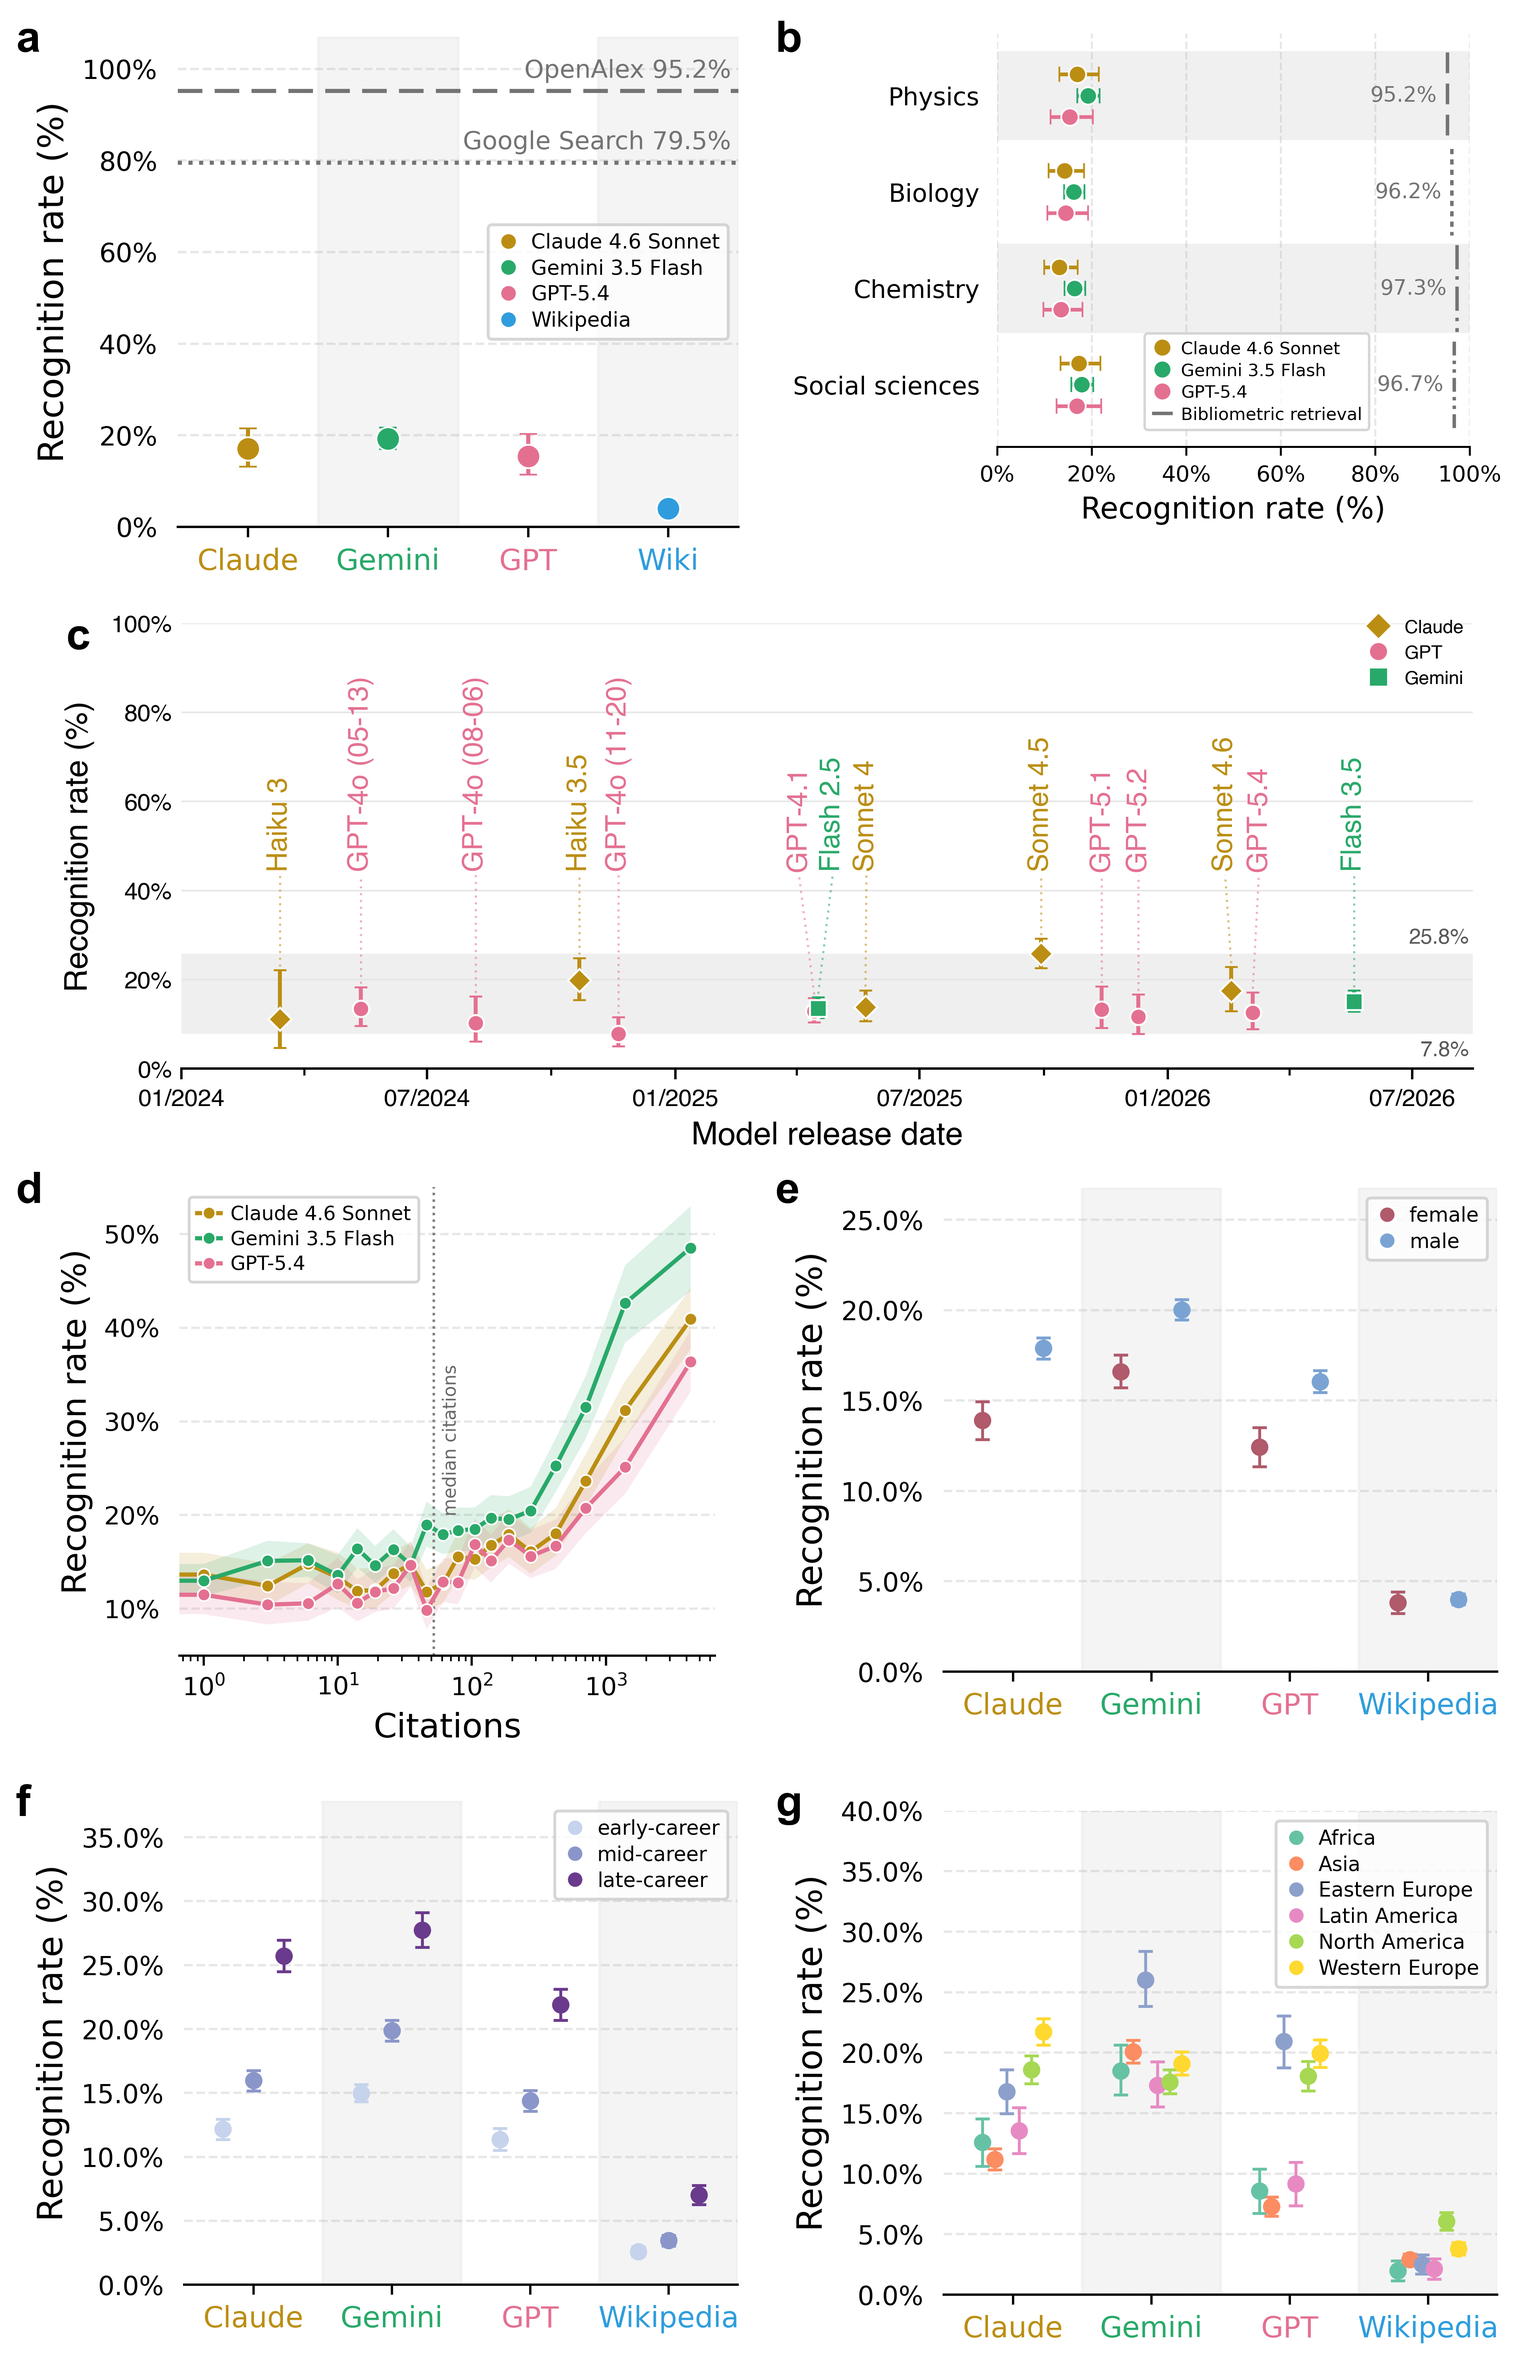
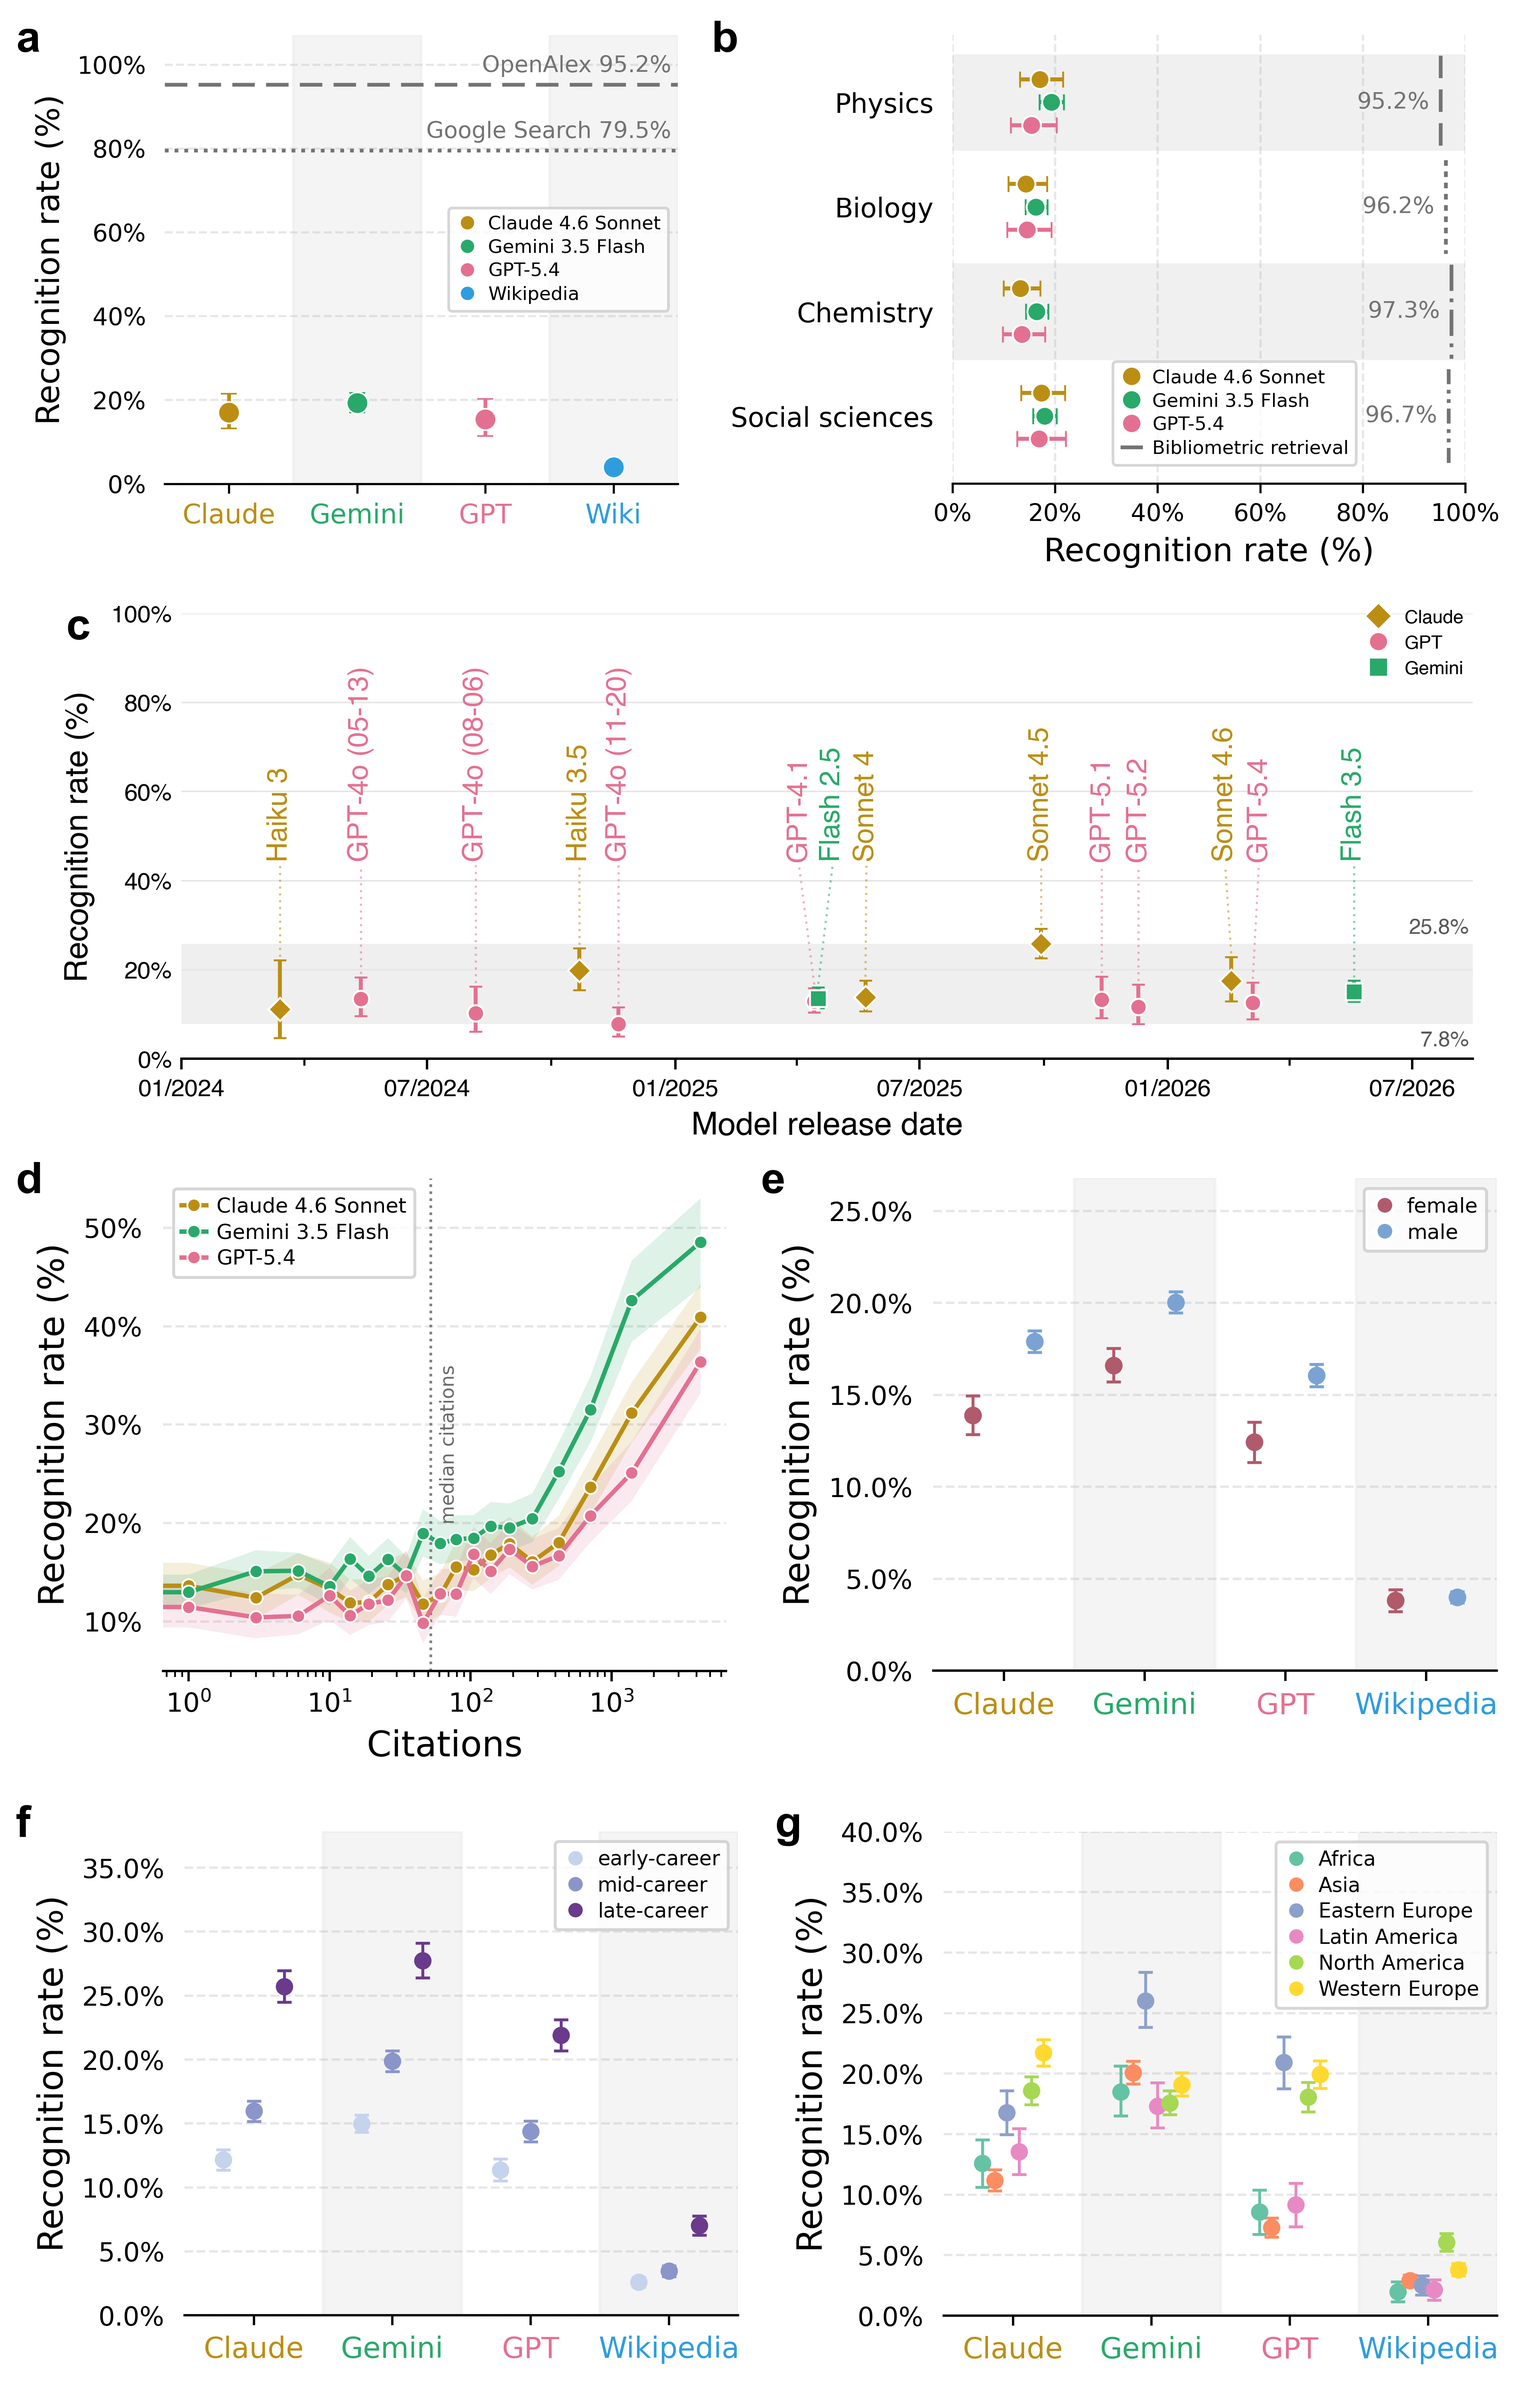
Fig. 1: one scale per row, x axes aligned
Each paired row is rendered at a single scale that fills the row width,
so both axes boxes have the same size, and the panels are offset so their
x axes line up. Previously each panel was scaled to fit its own cell, which
made panel b's axes 16% smaller than panel a's.

diff --git a/fig1_recognition_audit/make_fig1.py b/fig1_recognition_audit/make_fig1.py
@@ -492,7 +492,7 @@ def panel_g():
 # ───────────────────────────── composite ────────────────────────────────
 # Layout of the published figure (3850 px wide at 300 dpi): two panels per row,
 # panel c on its own row; each panel scaled to fit its cell (1865 x 1500 px; c: 3620 x 1350).
-W, PAD, H = 3850, 40, 1500
+W, PAD = 3850, 40
 C_SCALE = 1.601          # panel c is drawn 1.6x larger than its native 300-dpi size
 C_CELL = (3620, 1350)
 C_OFFSET = (46, 3)       # where panel c's content box starts inside its cell
@@ -505,11 +505,21 @@ def render(fig, dpi):
     return (plt.imread(buf)[..., :3] * 255).round().astype(np.uint8)
 
 
-def fit_render(fig, cw, ch):
-    """Render once at 300 dpi to measure, then again at the dpi that fits (cw, ch)."""
-    h0, w0 = render(fig, DPI).shape[:2]
-    s = min(cw / w0, ch / h0)
-    return render(fig, DPI * s)
+def row_render(pair, figs, rc):
+    """Render a pair of panels at one scale that fills the row width, so both axes boxes have
+    the same size; also return how far to drop each panel so the two x axes line up."""
+    widths, drop, imgs = {}, {}, {}
+    for k in pair:
+        with plt.rc_context(rc[k]):
+            widths[k] = render(figs[k], DPI).shape[1]
+    s = (W - 3 * PAD) / sum(widths.values())
+    for k in pair:
+        with plt.rc_context(rc[k]):
+            imgs[k] = render(figs[k], DPI * s)
+            top_in = figs[k].get_tightbbox().y1 + plt.rcParams["savefig.pad_inches"]
+        drop[k] = (top_in - MARGIN_B_IN) * DPI * s       # image top -> x axis, in px
+    lowest = max(drop.values())
+    return imgs, {k: round(lowest - drop[k]) for k in pair}
 
 
 def content_box(img):
@@ -553,12 +563,12 @@ def main():
             figs[k] = f()
             figs[k].savefig(os.path.join(OUT, "panels", f"fig1{k}.pdf"), bbox_inches="tight")
 
-    cw2 = (W - 3 * PAD) // 2
     rows = [["a", "b"], ["c"], ["d", "e"], ["f", "g"]]
-    imgs = {}
-    for k in "abdefg":
-        with plt.rc_context(rc[k]):
-            imgs[k] = fit_render(figs[k], cw2, H)
+    imgs, drop = {}, {"c": 0}
+    for pair in (["a", "b"], ["d", "e"], ["f", "g"]):
+        row_imgs, row_drop = row_render(pair, figs, rc)
+        imgs.update(row_imgs)
+        drop.update(row_drop)
     # panel c: fixed scale, content aligned inside a white cell
     with plt.rc_context(rc["c"]):
         raw = render(figs["c"], DPI * C_SCALE)
@@ -571,20 +581,23 @@ def main():
     width = {k: imgs[k].shape[1] for k in "abdefg"}
     width["c"], shift = raw.shape[1], {"c": (C_OFFSET[0] - x0, C_OFFSET[1] - y0)}
 
-    heights = [max(imgs[k].shape[0] for k in r) for r in rows]
+    heights = [max(drop[k] + imgs[k].shape[0] for k in r) for r in rows]
     total_h = sum(heights) + PAD * (len(rows) + 1)
     canvas = np.full((total_h, W, 3), 255, np.uint8)
     letters, place = [], {}
     y = PAD
     for r, rh in zip(rows, heights):
-        cw = (W - PAD * (len(r) + 1)) // len(r)
         for j, k in enumerate(r):
             im = imgs[k]
-            x = PAD + j * (cw + PAD) + (cw - im.shape[1]) // 2
-            canvas[y:y + im.shape[0], x:x + im.shape[1]] = im
+            if k == "c":
+                x = PAD + (W - 2 * PAD - im.shape[1]) // 2
+            else:      # left panel flush left, right panel flush right: every row spans the same width
+                x = PAD if j == 0 else W - PAD - im.shape[1]
+            yk = y + drop[k]
+            canvas[yk:yk + im.shape[0], x:x + im.shape[1]] = im
             dx, dy = shift.get(k, (0, 0))
-            place[k] = (x + dx, y + dy)
-            letters.append((k, PAD + j * (cw + PAD), y) if k != "c" else (k, 165, y + 2))
+            place[k] = (x + dx, yk + dy)
+            letters.append((k, x, y) if k != "c" else (k, 165, y + 2))
         y += rh + PAD
 
     def labelled(image):
